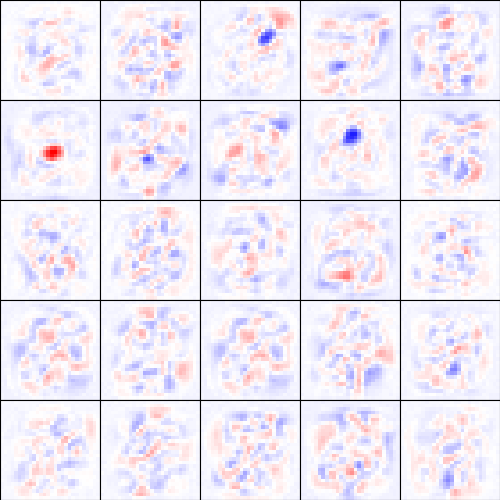
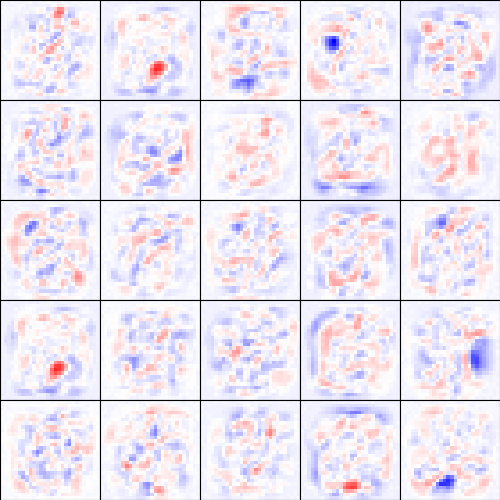
Working on task 4.2

diff --git a/Lab 4/lab4/dbn.py b/Lab 4/lab4/dbn.py
@@ -36,38 +36,41 @@ class DeepBeliefNet():
         self.n_gibbs_gener = 200
         self.n_gibbs_wakesleep = 5
         self.print_period = 2000
+        self.n_labels = n_labels
 
-    def recognize(self,true_img,true_lbl):
-
+    def recognize(self, true_imgs, true_lbl):
         """Recognize/Classify the data into label categories and calculate the accuracy
 
         Args:
           true_imgs: visible data shaped (number of samples, size of visible layer)
-          true_lbl: true labels shaped (number of samples, size of label layer). Used only for calculating accuracy, not driving the net
+          true_lbl: true labels shaped (number of samples, size of label layer). Used only for calculating accuracy,
+          not driving the net
         """
         
-        n_samples = true_img.shape[0]
+        n_samples = true_imgs.shape[0]
+        vis = true_imgs                     # visible layer gets the image data
+        lbl = np.ones(true_lbl.shape)/10.   # start the net by telling you know nothing about labels
         
-        vis = true_img # visible layer gets the image data
-        
-        lbl = np.ones(true_lbl.shape)/10. # start the net by telling you know nothing about labels        
-        
-        # [TODO TASK 4.2] fix the image data in the visible layer and drive the network bottom to top. In the top RBM, run alternating Gibbs sampling \
-        # and read out the labels (replace pass below and 'predicted_lbl' to your predicted labels).
-        # NOTE : inferring entire train/test set may require too much compute memory (depends on your system). In that case, divide into mini-batches.
-        
+        # [TODO TASK 4.2] fix the image data in the visible layer and drive the network bottom to top. In the top
+        #  RBM, run alternating Gibbs sampling and read out the labels (replace pass below and 'predicted_lbl' to
+        #  your predicted labels). NOTE : inferring entire train/test set may require too much compute memory
+        #  (depends on your system). In that case, divide into mini-batches.
+
+        # bottom to top
+        vis = self.rbm_stack["vis--hid"].get_h_given_v_dir(vis)[1]
+        vis = self.rbm_stack["hid--pen"].get_h_given_v_dir(vis)[1]
+        vis = np.concatenate((vis, lbl), axis=1)
+
+        # Gibbs sampling in top RBM
         for _ in range(self.n_gibbs_recog):
+            vis = self.rbm_stack["pen+lbl--top"].gibbs(vis)
 
-            pass
-
-        predicted_lbl = np.zeros(true_lbl.shape)
+        # read result
+        predicted_lbl = vis[:, -self.n_labels:]
             
-        print ("accuracy = %.2f%%"%(100.*np.mean(np.argmax(predicted_lbl,axis=1)==np.argmax(true_lbl,axis=1))))
-        
-        return
+        print ("accuracy = %.2f%%" % (100.*np.mean(np.argmax(predicted_lbl, axis=1) == np.argmax(true_lbl, axis=1))))
 
-    def generate(self,true_lbl,name):
-        
+    def generate(self, true_lbl, name):
         """Generate data from labels
 
         Args:
@@ -78,25 +81,33 @@ class DeepBeliefNet():
         n_sample = true_lbl.shape[0]
         
         records = []        
-        fig,ax = plt.subplots(1,1,figsize=(3,3))
+        fig, ax = plt.subplots(1, 1, figsize=(3, 3))
         plt.subplots_adjust(left=0, bottom=0, right=1, top=1, wspace=0, hspace=0)
-        ax.set_xticks([]); ax.set_yticks([])
+        ax.set_xticks([])
+        ax.set_yticks([])
 
         lbl = true_lbl
 
-        # [TODO TASK 4.2] fix the label in the label layer and run alternating Gibbs sampling in the top RBM. From the top RBM, drive the network \ 
+        # [TODO TASK 4.2] fix the label in the label layer and run alternating Gibbs sampling in the top RBM. From the top RBM, drive the network
         # top to the bottom visible layer (replace 'vis' from random to your generated visible layer).
-            
+
+        # sample from bias and clamp labels
+        vis = sample_binary(sigmoid(self.rbm_stack["pen+lbl--top"].bias_v) * np.ones((n_sample, self.sizes["pen"])))
+        vis = np.concatenate((vis, lbl), axis=1)
+
+        # Gibbs sampling
         for _ in range(self.n_gibbs_gener):
+            vis = self.rbm_stack["pen+lbl--top"].gibbs(vis)
+            vis = np.concatenate((vis[:, :-self.n_labels], lbl), axis=1)    # clamped all iterations
 
-            vis = np.random.rand(n_sample,self.sizes["vis"])
-            
-            records.append([ax.imshow(vis.reshape(self.image_size), cmap="bwr", vmin=0, vmax=1, animated=True, interpolation=None)])
+        # top to bottom
+        vis = self.rbm_stack["hid--pen"].get_v_give_h_dir(vis)[1]
+        vis = self.rbm_stack["vis--hid"].get_v_give_h_dir(vis)[1]
 
-        # TODO: enable this line after implementing this task
-        # anim = stitch_video(fig, records).save("images/%s.generate%d.mp4" % (name, np.argmax(true_lbl)))
-            
-        return
+        # video
+        for v in vis:
+            records.append(ax.imshow(vis.reshape(self.image_size), cmap="bwr", vmin=0, vmax=1, animated=True, interpolation=None))
+        anim = stitch_video(fig, records).save("images/%s.generate%d.mp4" % (name, np.argmax(true_lbl)))
 
     def train_greedylayerwise(self, vis_trainset, lbl_trainset, n_epochs):
         """
@@ -112,13 +123,13 @@ class DeepBeliefNet():
         """
 
         try:
-            self.loadfromfile_rbm(loc="trained_rbm",name="vis--hid")
+            self.loadfromfile_rbm(loc="trained_rbm", name="vis--hid")
             self.rbm_stack["vis--hid"].untwine_weights()            
             
-            self.loadfromfile_rbm(loc="trained_rbm",name="hid--pen")
+            self.loadfromfile_rbm(loc="trained_rbm", name="hid--pen")
             self.rbm_stack["hid--pen"].untwine_weights()
             
-            self.loadfromfile_rbm(loc="trained_rbm",name="pen+lbl--top")        
+            self.loadfromfile_rbm(loc="trained_rbm", name="pen+lbl--top")
 
         except IOError:
 
@@ -128,23 +139,27 @@ class DeepBeliefNet():
             """ 
             CD-1 training for vis--hid 
             """
-            self.savetofile_rbm(loc="trained_rbm",name="vis--hid")
+            self.rbm_stack["vis--hid"].cd1(vis_trainset, n_epochs)
+            self.savetofile_rbm(loc="trained_rbm", name="vis--hid")
+            self.rbm_stack["vis--hid"].untwine_weights()
 
             print ("training hid--pen")
-            self.rbm_stack["vis--hid"].untwine_weights()            
             """ 
             CD-1 training for hid--pen 
-            """            
-            self.savetofile_rbm(loc="trained_rbm",name="hid--pen")            
+            """
+            p_v = self.rbm_stack["vis--hid"].get_h_given_v_dir(vis_trainset)[0]
+            self.rbm_stack["hid--pen"].cd1(p_v, n_epochs)     # notice that we use probabilities
+            self.savetofile_rbm(loc="trained_rbm", name="hid--pen")
+            self.rbm_stack["hid--pen"].untwine_weights()
 
             print ("training pen+lbl--top")
-            self.rbm_stack["hid--pen"].untwine_weights()
             """ 
             CD-1 training for pen+lbl--top 
             """
-            self.savetofile_rbm(loc="trained_rbm",name="pen+lbl--top")            
-
-        return    
+            p_v = self.rbm_stack["hid--pen"].get_h_given_v_dir(p_v)[0]
+            p_v = np.concatenate((p_v, lbl_trainset), axis=1)   # clamp labels
+            self.rbm_stack["pen+lbl--top"].cd1(p_v, n_epochs=n_epochs)
+            self.savetofile_rbm(loc="trained_rbm", name="pen+lbl--top")
 
     def train_wakesleep_finetune(self, vis_trainset, lbl_trainset, n_iterations):
 
@@ -195,17 +210,14 @@ class DeepBeliefNet():
 
         return
 
-    
     def loadfromfile_rbm(self,loc,name):
-        
         self.rbm_stack[name].weight_vh = np.load("%s/rbm.%s.weight_vh.npy"%(loc,name))
-        self.rbm_stack[name].bias_v    = np.load("%s/rbm.%s.bias_v.npy"%(loc,name))
-        self.rbm_stack[name].bias_h    = np.load("%s/rbm.%s.bias_h.npy"%(loc,name))
-        print ("loaded rbm[%s] from %s"%(name,loc))
+        self.rbm_stack[name].bias_v = np.load("%s/rbm.%s.bias_v.npy"%(loc,name))
+        self.rbm_stack[name].bias_h = np.load("%s/rbm.%s.bias_h.npy"%(loc,name))
+        print ("loaded rbm[%s] from %s" % (name, loc))
         return
         
     def savetofile_rbm(self,loc,name):
-        
         np.save("%s/rbm.%s.weight_vh"%(loc,name), self.rbm_stack[name].weight_vh)
         np.save("%s/rbm.%s.bias_v"%(loc,name),    self.rbm_stack[name].bias_v)
         np.save("%s/rbm.%s.bias_h"%(loc,name),    self.rbm_stack[name].bias_h)
@@ -215,16 +227,14 @@ class DeepBeliefNet():
         
         self.rbm_stack[name].weight_v_to_h = np.load("%s/dbn.%s.weight_v_to_h.npy"%(loc,name))
         self.rbm_stack[name].weight_h_to_v = np.load("%s/dbn.%s.weight_h_to_v.npy"%(loc,name))
-        self.rbm_stack[name].bias_v        = np.load("%s/dbn.%s.bias_v.npy"%(loc,name))
-        self.rbm_stack[name].bias_h        = np.load("%s/dbn.%s.bias_h.npy"%(loc,name))
+        self.rbm_stack[name].bias_v = np.load("%s/dbn.%s.bias_v.npy"%(loc,name))
+        self.rbm_stack[name].bias_h = np.load("%s/dbn.%s.bias_h.npy"%(loc,name))
         print ("loaded rbm[%s] from %s"%(name,loc))
         return
         
     def savetofile_dbn(self,loc,name):
-        
         np.save("%s/dbn.%s.weight_v_to_h"%(loc,name), self.rbm_stack[name].weight_v_to_h)
         np.save("%s/dbn.%s.weight_h_to_v"%(loc,name), self.rbm_stack[name].weight_h_to_v)
         np.save("%s/dbn.%s.bias_v"%(loc,name),        self.rbm_stack[name].bias_v)
         np.save("%s/dbn.%s.bias_h"%(loc,name),        self.rbm_stack[name].bias_h)
         return
-    

diff --git a/Lab 4/lab4/run.py b/Lab 4/lab4/run.py
@@ -12,71 +12,62 @@ if __name__ == "__main__":
     print ("\nStarting a Restricted Boltzmann Machine..")
 
     # training
-    batch_size = 20
-    n_epochs = 10
-    plot_data = []
-    for ndim_hidden in [50, 100, 200, 500]:
-        rbm = RestrictedBoltzmannMachine(ndim_visible=image_size[0] * image_size[1],
-                                         ndim_hidden=ndim_hidden,
-                                         is_bottom=True,
-                                         image_size=image_size,
-                                         is_top=False,
-                                         n_labels=10,
-                                         batch_size=batch_size)
-        rbm.cd1(visible_trainset=train_imgs, n_epochs=n_epochs)
-        plot_data.append((ndim_hidden, rbm.reconstruction_error))
+    # batch_size = 20
+    # n_epochs = 10
+    # plot_data = []
+    # for ndim_hidden in [50, 100, 200, 500]:
+    #     rbm = RestrictedBoltzmannMachine(ndim_visible=image_size[0] * image_size[1],
+    #                                      ndim_hidden=ndim_hidden,
+    #                                      is_bottom=True,
+    #                                      image_size=image_size,
+    #                                      is_top=False,
+    #                                      n_labels=10,
+    #                                      batch_size=batch_size)
+    #     rbm.cd1(visible_trainset=train_imgs, n_epochs=n_epochs)
+    #     plot_data.append((ndim_hidden, rbm.reconstruction_error))
+    #
+    # # show trend of reconstruction error
+    # for ndim_hidden, reconstruction_error in plot_data:
+    #     plt.plot(reconstruction_error, label='n_hidden={}'.format(ndim_hidden))
+    # plt.xticks(np.arange(n_epochs+1))
+    # plt.legend()
+    # plt.xlabel('epoch')
+    # plt.ylabel('reconstruction error')
+    # plt.savefig('images/reconstruction_error.png')
+    # plt.close()
+    #
+    # # show some reconstructions
+    # n_images = 2
+    # for i, n in enumerate(np.random.choice(len(train_imgs), replace=False, size=n_images)):
+    #     plt.subplot(n_images, 2, i*2+1)
+    #     plt.imshow(train_imgs[n].reshape(image_size))
+    #     plt.subplot(n_images, 2, i*2+2)
+    #     plt.imshow(rbm.gibbs(train_imgs[n]).reshape(image_size))
+    # plt.savefig('images/reconstructions.png')
+    # plt.close()
 
-    # show trend of reconstruction error
-    for ndim_hidden, reconstruction_error in plot_data:
-        plt.plot(reconstruction_error, label='n_hidden={}'.format(ndim_hidden))
-    plt.xticks(np.arange(n_epochs+1))
-    plt.legend()
-    plt.xlabel('epoch')
-    plt.ylabel('reconstruction error')
-    plt.savefig('images/reconstruction_error.png')
-    plt.close()
 
-    # show some reconstructions
-    n_images = 2
-    for i, n in enumerate(np.random.choice(len(train_imgs), replace=False, size=n_images)):
-        plt.subplot(n_images, 2, i*2+1)
-        plt.imshow(train_imgs[n].reshape(image_size))
-        plt.subplot(n_images, 2, i*2+2)
-        plt.imshow(rbm.gibbs(train_imgs[n]).reshape(image_size))
-    plt.savefig('images/reconstructions.png')
-    plt.close()
-
-    ''' deep-belief net '''
-
+    ''' Deep-Belief Net '''
     print ("\nStarting a Deep Belief Net..")
-
     dbn = DeepBeliefNet(sizes={"vis": image_size[0] * image_size[1], "hid": 500, "pen": 500, "top": 2000, "lbl": 10},
                         image_size=image_size,
                         n_labels=10,
                         batch_size=10
                         )
 
-    ''' greedy layer-wise training '''
-
-    dbn.train_greedylayerwise(vis_trainset=train_imgs, lbl_trainset=train_lbls, n_epochs=2000)
-
+    ''' Greedy layer-wise training '''
+    dbn.train_greedylayerwise(vis_trainset=train_imgs, lbl_trainset=train_lbls, n_epochs=10)
     dbn.recognize(train_imgs, train_lbls)
-
     dbn.recognize(test_imgs, test_lbls)
-
     for digit in range(10):
         digit_1hot = np.zeros(shape=(1, 10))
         digit_1hot[0, digit] = 1
         dbn.generate(digit_1hot, name="rbms")
 
-    ''' fine-tune wake-sleep training '''
-
+    ''' Fine-tune wake-sleep training '''
     dbn.train_wakesleep_finetune(vis_trainset=train_imgs, lbl_trainset=train_lbls, n_iterations=2000)
-
     dbn.recognize(train_imgs, train_lbls)
-
     dbn.recognize(test_imgs, test_lbls)
-
     for digit in range(10):
         digit_1hot = np.zeros(shape=(1, 10))
         digit_1hot[0, digit] = 1

diff --git a/Lab 4/lab4/rbm.py b/Lab 4/lab4/rbm.py
@@ -162,7 +162,18 @@ class RestrictedBoltzmannMachine:
             """
 
             # [TODO TASK 4.1] compute probabilities and activations (samples from probabilities) of visible layer (replace the pass below).
-            pass
+            support = self.bias_v + hidden_minibatch.dot(self.weight_vh.T)
+
+            p_v_labels = softmax(support[:, -self.n_labels:])
+            v_labels = sample_categorical(p_v_labels)
+            print(v_labels.shape)
+            print(p_v_labels.shape)
+
+            p_v_data = sigmoid(support[:, :-self.n_labels])
+            v_data = sample_binary(p_v_data)
+
+            p_v = np.concatenate((p_v_labels, p_v_data), axis=1)
+            v = np.concatenate((v_labels, v_data), axis=1)
 
         else:
 
@@ -193,12 +204,10 @@ class RestrictedBoltzmannMachine:
 
         assert self.weight_v_to_h is not None
 
-        n_samples = visible_minibatch.shape[0]
-
-        # [TODO TASK 4.2] perform same computation as the function 'get_h_given_v' but with directed connections (
-        #  replace the zeros below)
-
-        return np.zeros((n_samples, self.ndim_hidden)), np.zeros((n_samples, self.ndim_hidden))
+        # [TODO TASK 4.2] perform same computation as the function 'get_h_given_v' but with directed connections (replace the zeros below)
+        p_h = sigmoid(self.bias_h + visible_minibatch.dot(self.weight_v_to_h))
+        h = sample_binary(p_h)
+        return p_h, h
 
     def get_v_given_h_dir(self, hidden_minibatch):
         """Compute probabilities p(v|h) and activations v ~ p(v|h)
@@ -219,10 +228,9 @@ class RestrictedBoltzmannMachine:
         if self.is_top:
 
             """
-            Here visible layer has both data and labels. Compute total input for each unit (identical for both 
-            cases), \ 
-            and split into two parts, something like support[:, :-self.n_labels] and support[:, -self.n_labels:]. \
-            Then, for both parts, use the appropriate activation function to get probabilities and a sampling method \
+            Here visible layer has both data and labels. Compute total input for each unit (identical for both cases),
+            and split into two parts, something like support[:, :-self.n_labels] and support[:, -self.n_labels:].
+            Then, for both parts, use the appropriate activation function to get probabilities and a sampling method
             to get activities. The probabilities as well as activities can then be concatenated back into a normal 
             visible layer.
             """
@@ -232,17 +240,16 @@ class RestrictedBoltzmannMachine:
             # this case should never be executed : when the RBM is a part of a DBN and is at the top, it will have
             # not have directed connections.
             # Appropriate code here is to raise an error (replace pass below)
-
-            pass
+            raise RuntimeError('Directed connections used in the top RBM.')
 
         else:
 
             # [TODO TASK 4.2] performs same computaton as the function 'get_v_given_h' but with directed connections
             #  (replace the pass and zeros below)
+            p_v = sigmoid(self.bias_v + hidden_minibatch.dot(self.weight_h_to_v))
+            v = sample_binary(p_v)
 
-            pass
-
-        return np.zeros((n_samples, self.ndim_visible)), np.zeros((n_samples, self.ndim_visible))
+        return p_v, v
 
     def update_generate_params(self, inps, trgs, preds):
         """Update generative weight "weight_h_to_v" and bias "bias_v"
